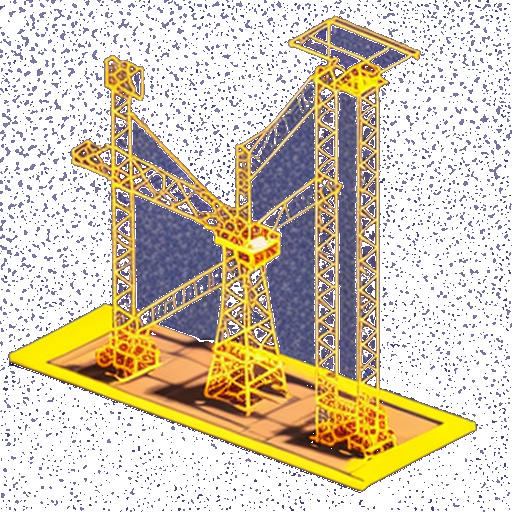
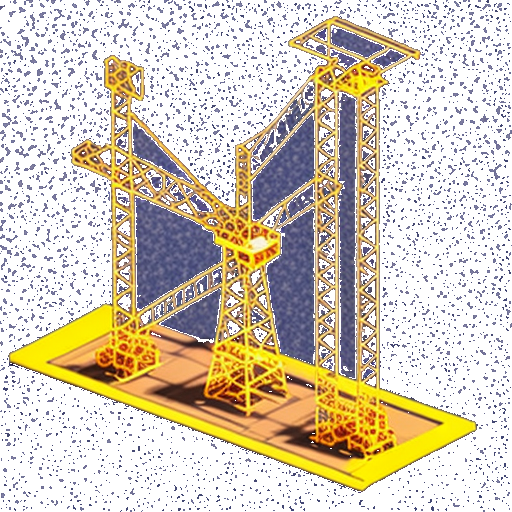
World: ground shadows + magenta-residue cleanup (less floating/fake)
Impostors now sit on a soft radial ground-shadow decal so they read as
grounded rather than floating cutouts, and their leftover magenta
green-screen residue is post-processed out (hue key, protects skin/red/
wood) directly on the committed PNGs — no GPU regen. Addresses the
"too 2D / fake" feedback.

Claude-Session: https://claude.ai/code/session_019YWdCFgiCtzULqt4Sez2EC

diff --git a/assets/world/world.js b/assets/world/world.js
@@ -100,16 +100,35 @@ function impostorMaterial(type) {
   if (!spriteMat.has(type)) {
     const t = texLoader.load(`./impostors/${type}.png`);
     t.colorSpace = THREE.SRGBColorSpace;
-    spriteMat.set(type, new THREE.SpriteMaterial({ map: t, transparent: true, alphaTest: 0.5 }));
+    spriteMat.set(type, new THREE.SpriteMaterial({ map: t, transparent: true, alphaTest: 0.4 }));
   }
   return spriteMat.get(type);
 }
+// Soft round ground shadow so impostors read as grounded, not floating cutouts.
+let shadowMat = null;
+function shadowMaterial() {
+  if (!shadowMat) {
+    const c = document.createElement('canvas'); c.width = c.height = 64;
+    const g = c.getContext('2d');
+    const rad = g.createRadialGradient(32, 32, 4, 32, 32, 30);
+    rad.addColorStop(0, 'rgba(0,0,0,0.42)'); rad.addColorStop(1, 'rgba(0,0,0,0)');
+    g.fillStyle = rad; g.fillRect(0, 0, 64, 64);
+    const t = new THREE.CanvasTexture(c);
+    shadowMat = new THREE.MeshBasicMaterial({ map: t, transparent: true, depthWrite: false });
+  }
+  return shadowMat;
+}
 function spawnImpostor(o) {
+  const grp = new THREE.Group();
   const sp = new THREE.Sprite(impostorMaterial(o.ref));
   sp.center.set(0.5, 0);                 // anchor at the bottom -> stands on ground
   sp.scale.set(o.s, o.s, 1);
-  sp.position.set(o.x, 0, o.z);
-  return sp;
+  grp.add(sp);
+  const sh = new THREE.Mesh(new THREE.PlaneGeometry(o.s * 0.8, o.s * 0.8), shadowMaterial());
+  sh.rotation.x = -Math.PI / 2; sh.position.y = 0.03;
+  grp.add(sh);
+  grp.position.set(o.x, 0, o.z);
+  return grp;
 }
 async function spawnAsset(o) {
   let proto = glbProto.get(o.ref);
